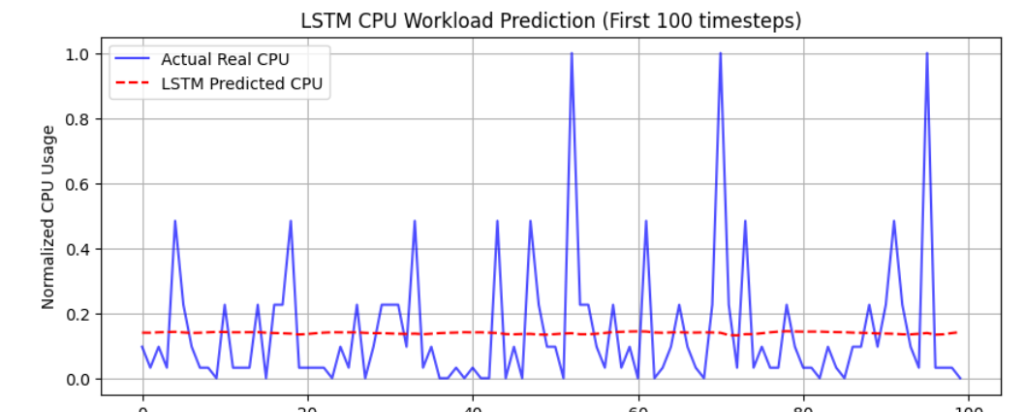
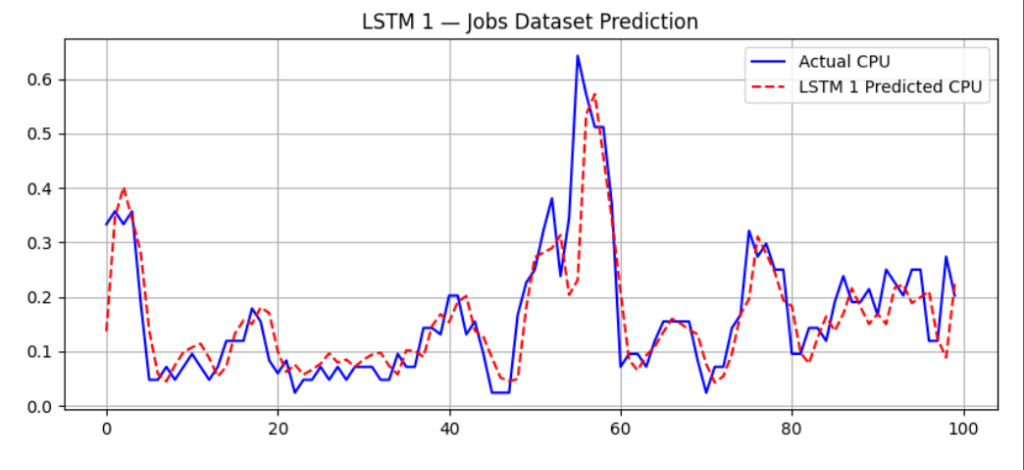
Update LSTM 1 results (RMSE 0.0811) and prediction plot

Changed region(s): [[0.0312, 0.0291, 1.0, 1.0]]

diff --git a/lstm/README.md b/lstm/README.md
@@ -9,8 +9,9 @@ Predicting server CPU workload using Deep Learning to enable proactive energy-ef
 ## Results
 
 ### LSTM 1 — Jobs Dataset (`lstm_job.py`)
-* **Test RMSE:** `0.2038`
-* **Validation Loss:** `0.0415`
+* **Test RMSE:** `0.0811`
+* **Test MAE:** `0.0534`
+* **Validation Loss:** `0.0066` (`val_mae: 0.0534`)
 
 ![LSTM 1 Jobs Prediction](lstm1_jobs.png)
 
